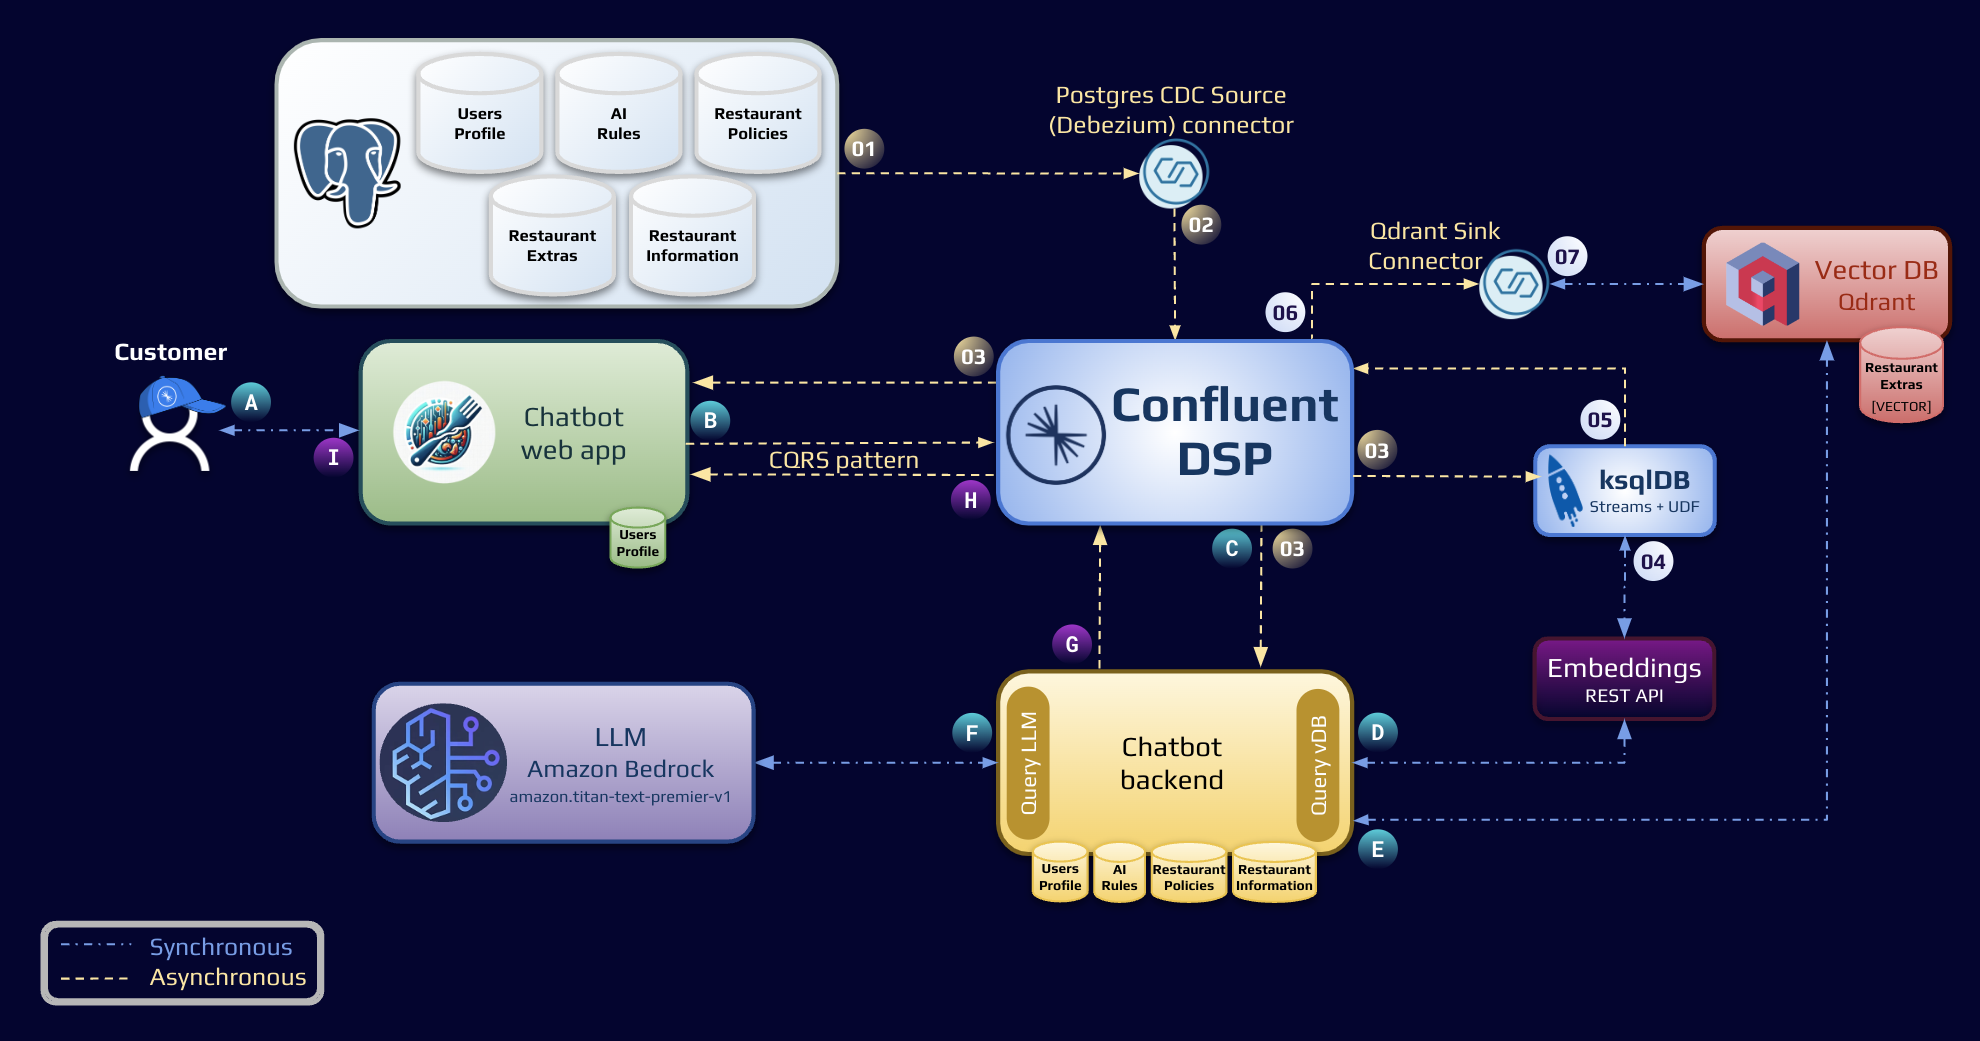
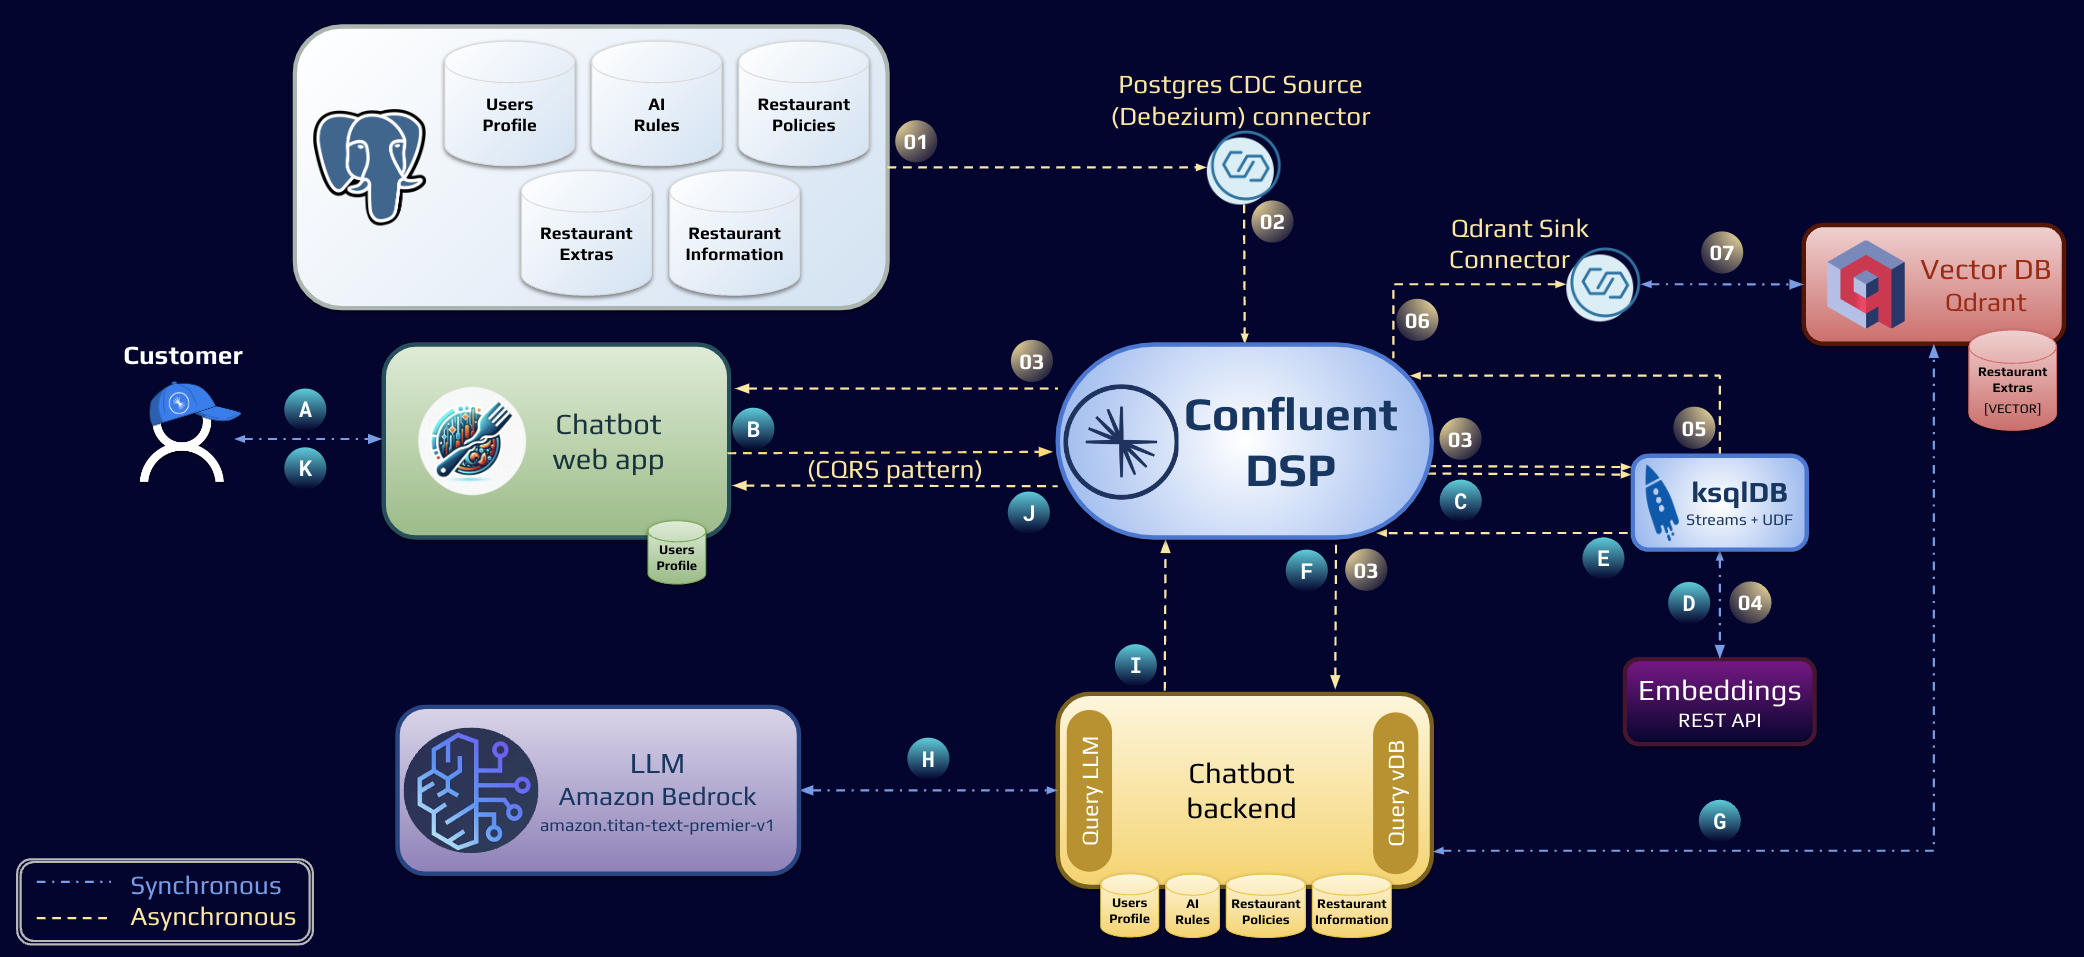
ksqlDB to add vector data

diff --git a/src/chatbot.py b/src/chatbot.py
@@ -4,7 +4,6 @@ import json
 import time
 import boto3
 import logging
-import requests
 
 from dotenv import load_dotenv, find_dotenv
 from threading import Thread
@@ -18,7 +17,7 @@ from qdrant_client import QdrantClient
 from qdrant_client.http import models
 
 from utils import (
-    TOPIC_CUSTOMER_ACTIONS,
+    TOPIC_CUSTOMER_ACTIONS_EMBEDDINGS,
     TOPIC_CHATBOT_RESPONSES,
     TOPIC_DB_CUSTOMER_PROFILES,
     TOPIC_DB_RESTAURANT,
@@ -209,7 +208,7 @@ if __name__ == "__main__":
         auto_offset_reset="latest",
         enable_auto_commit=True,
     )
-    with open(os.path.join("schemas", "chatbot_response.avro"), "r") as f:
+    with open(os.path.join("schemas", "chatbot_responses.avro"), "r") as f:
         schema_str = f.read()
     avro_serializer = kafka.avro_serialiser(schema_str)
 
@@ -226,13 +225,11 @@ if __name__ == "__main__":
             region_name=env_vars.get("AWS_REGION"),
         )
 
-    embedding_url = f"http://localhost:{os.environ.get('EMBEDDING_PORT')}{os.environ.get('EMBEDDING_PATH')}"
-
     # Process messages submitted by the customers (Kafka consumer #2)
     for topic, headers, key, value in kafka.avro_string_consumer(
         kafka.consumer,
         topics=[
-            TOPIC_CUSTOMER_ACTIONS,
+            TOPIC_CUSTOMER_ACTIONS_EMBEDDINGS,
         ],
     ):
         session_id = key
@@ -325,20 +322,10 @@ if __name__ == "__main__":
                         vdb_context = list()
 
                     if query:
-                        # Generate vector Data
-                        response = requests.post(
-                            embedding_url,
-                            headers={
-                                "Content-Type": "text/plain; charset=UTF-8",
-                            },
-                            data=query,
-                        )
-                        vector_data = response.json().get("vector_data", list())
-
                         # Query Vector DB
                         result_search = VDB_CLIENT.search(
                             collection_name=VDB_COLLECTION,
-                            query_vector=vector_data,
+                            query_vector=value["vector"],  # Vector/Embeddings generated by ksqlDB
                             limit=VECTOR_DB_SEARCH_LIMIT,
                             # Filter out empty titles (as the Qdrant connector 1.1.0 doesn't handle deletes, then a delete have the title/description as empty strings)
                             # Deletes have been addressed on Qdrant connector 1.1.2

diff --git a/README.md b/README.md
@@ -22,19 +22,21 @@ In summary, the steps are:
    - Chatbot web application will consume the user profile table and have it in memory (event source pattern)
    - Chatbot backend will consume the user profile, AI rules, restaurant policies and information tables and have it in memory (event source pattern)
    - ksqlDB will consume the restaurant extra table (`db.public.extras`) and have it ingested as a stream
- - `04`: ksqlDB will submit a POST request to the REST API to get the vector data
+ - `04`: ksqlDB will submit a POST request to the REST API to get the vector data based on the postgres data
  - `05`: the restaurant extras topic will be transformed to the format as expected by the vector DB as well as have the embeddings appended to it (`db.public.extras.vdb`)
  - `06`: The Qdrant sink connector will consume the data from the transformed restaurant extras topic (`db.public.extras.vdb`)
  - `07`: The Qdrant sink connector will upsert the corresponding collection on the Qdrant vector DB
  - `A`: Customer logs in and submit a query/question
- - `B`: The chatbot web application produces the request to the Kafka topic `chatbot-customer_actions` (CQRS pattern)
- - `C`: The chatbot backend will consume the query/question (event) from the topic `chatbot-customer_actions`. If it is the initial message it will enrich the query/question with informations about the AI application, restaurant and customer
- - `D`: The chatbot backend will generate the vector data based on the query/question
- - `E`: The chatbot backend will query the VectorDB for any semantically similar document
- - `F`: In case any document is founf it will append to the query/question for additional context, and submit the prompt to the LLM
- - `G`: The response from the LLM is published to the Kafka topic `chatbot-chatbot_responses`
- - `H`: The chatbot webapplication consumes the response just published to the Kafka topic `chatbot-chatbot_responses` (matching it wil the session of the customer who asked it)
- - `I`: Response is send back to the customer
+ - `B`: The chatbot web application publishes the request to the Kafka topic `chatbot-customer_actions` (CQRS pattern)
+ - `C`: ksqlDB will ingest the message on the topic `chatbot-customer_actions`
+ - `D`: ksqlDB will submit a POST request to the REST API to get the vector data based on the customer query/question
+ - `E`: ksqlDB will add the vector data and publish a message to the topic `chatbot-customer_actions_embeddings`
+ - `F`: The chatbot backend will consume the query/question (event) from the topic `chatbot-customer_actions_embeddings`. If it is the initial message it will enrich the query/question with informations about the AI application, restaurant and customer
+ - `G`: The chatbot backend will query the VectorDB for any semantically similar document
+ - `H`: In case any document is founf it will append to the query/question for additional context, and submit the prompt to the LLM
+ - `I`: The response from the LLM is published to the Kafka topic `chatbot-chatbot_responses`
+ - `J`: The chatbot webapplication consumes the response just published to the Kafka topic `chatbot-chatbot_responses` (matching it wil the session of the customer who asked it)
+ - `K`: Response is sent back to the customer
 
 ## Requirements
 - [curl](https://curl.se/)
